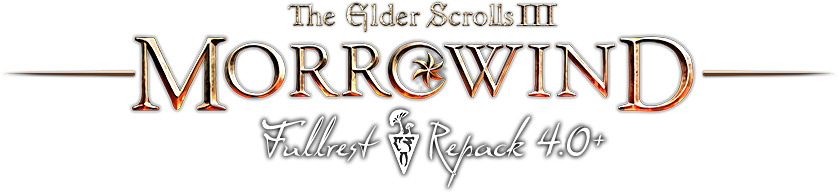
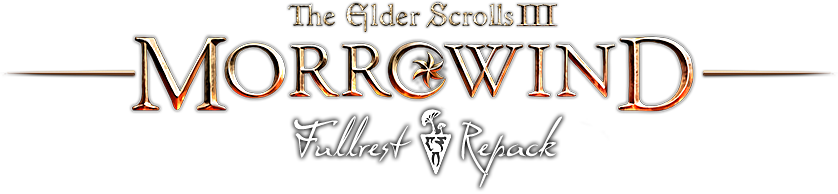
dev-port phase 4: UI — telegram/website buttons, region selector, dev header
- telegram (t.me/morrowindfr) and website (morrowindfr.com) buttons
  replace patreon per the dev skin
- update button .branch variant (light-blue text) for the new-line notice
- settings tab: region radios RU/EU persisted to LOCATION
- refreshed header.png from the dev branch

Changed region(s): [[0.3103, 0.5258, 0.7446, 0.9897]]

diff --git a/Mfr.Launcher/ViewModels/MainViewModel.cs b/Mfr.Launcher/ViewModels/MainViewModel.cs
@@ -20,13 +20,15 @@ namespace Mfr.Launcher.ViewModels;
 public partial class MainViewModel : ObservableObject, IDisposable
 {
     private readonly LauncherServices _services;
+    private readonly Mfr.Core.V2.LauncherServicesV2? _v2;
     private readonly SemaphoreSlim _taskLock = new(1, 1);
     private CancellationTokenSource? _taskCancellation;
     private UpdateStatus _lastTaskKind;
 
-    public MainViewModel(LauncherServices? services = null)
+    public MainViewModel(LauncherServices? services = null, Mfr.Core.V2.LauncherServicesV2? v2 = null)
     {
         _services = services ?? new LauncherServices();
+        _v2 = v2;
         GameVersion = _services.Paths.GameVersion;
         GamePath = _services.Paths.Root;
         LauncherVersion = _services.Options.Version;
@@ -113,6 +115,13 @@ public partial class MainViewModel : ObservableObject, IDisposable
     private bool _consistencyEnabled;
 
     [ObservableProperty]
+    private bool _isRuRegion = true;
+
+    [ObservableProperty]
+    private bool _isEuRegion;
+
+
+    [ObservableProperty]
     private bool _gameSettingEnabled;
 
     [ObservableProperty]
@@ -120,6 +129,25 @@ public partial class MainViewModel : ObservableObject, IDisposable
 
     [ObservableProperty]
     private bool _openMwEnabled;
+
+
+    partial void OnIsRuRegionChanged(bool value)
+    {
+        if (value && _v2 is { } v2)
+        {
+            v2.Region = Mfr.Protocol.Dto.Region.RU;
+            _services.Repository.SetProperty(Mfr.Core.Storage.PropertyKeys.Location, "RU");
+        }
+    }
+
+    partial void OnIsEuRegionChanged(bool value)
+    {
+        if (value && _v2 is { } v2)
+        {
+            v2.Region = Mfr.Protocol.Dto.Region.EU;
+            _services.Repository.SetProperty(Mfr.Core.Storage.PropertyKeys.Location, "EU");
+        }
+    }
 
     partial void OnSpeedLimitEnabledChanged(bool value) => ApplySpeedLimit();
 
@@ -519,6 +547,13 @@ public partial class MainViewModel : ObservableObject, IDisposable
 
     [RelayCommand]
     private void OpenPatreon() => OpenLink("https://www.patreon.com/aLMFR");
+
+
+    [RelayCommand]
+    private void OpenTelegram() => OpenLink("https://t.me/morrowindfr");
+
+    [RelayCommand]
+    private void OpenWebsite() => OpenLink("https://morrowindfr.com");
 
     private static void OpenLink(string url) =>
         Process.Start(new ProcessStartInfo { FileName = url, UseShellExecute = true });
